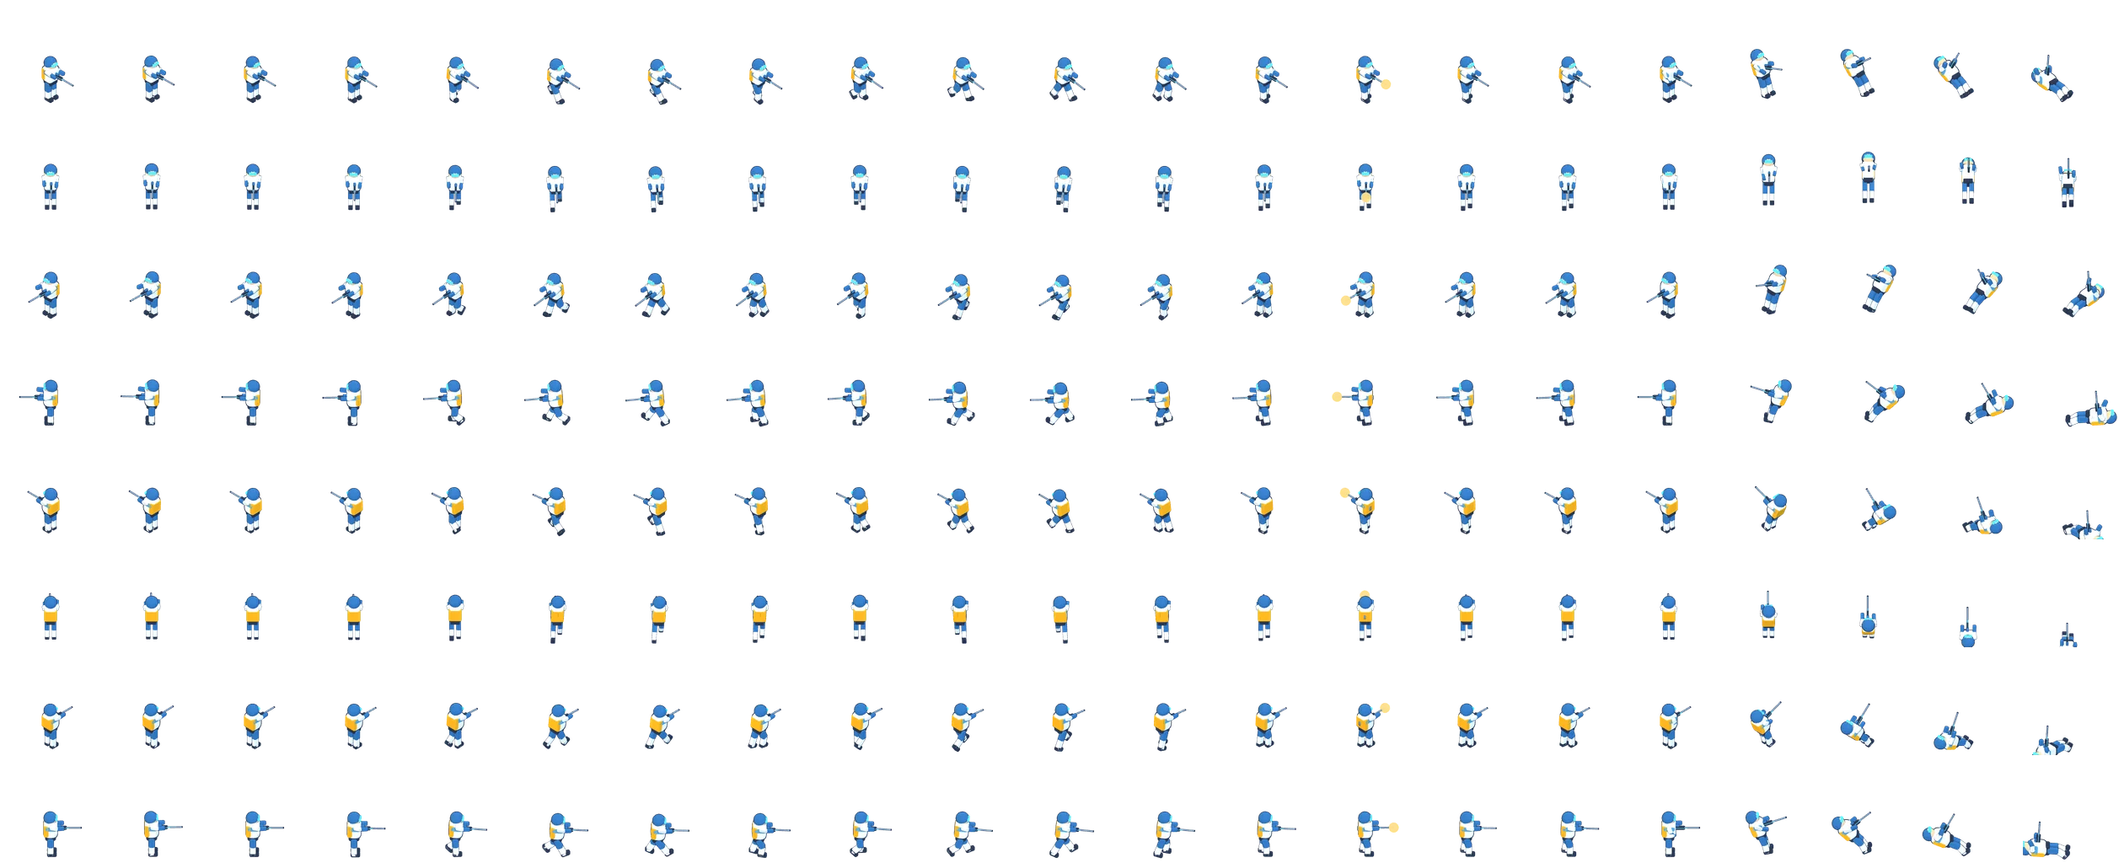
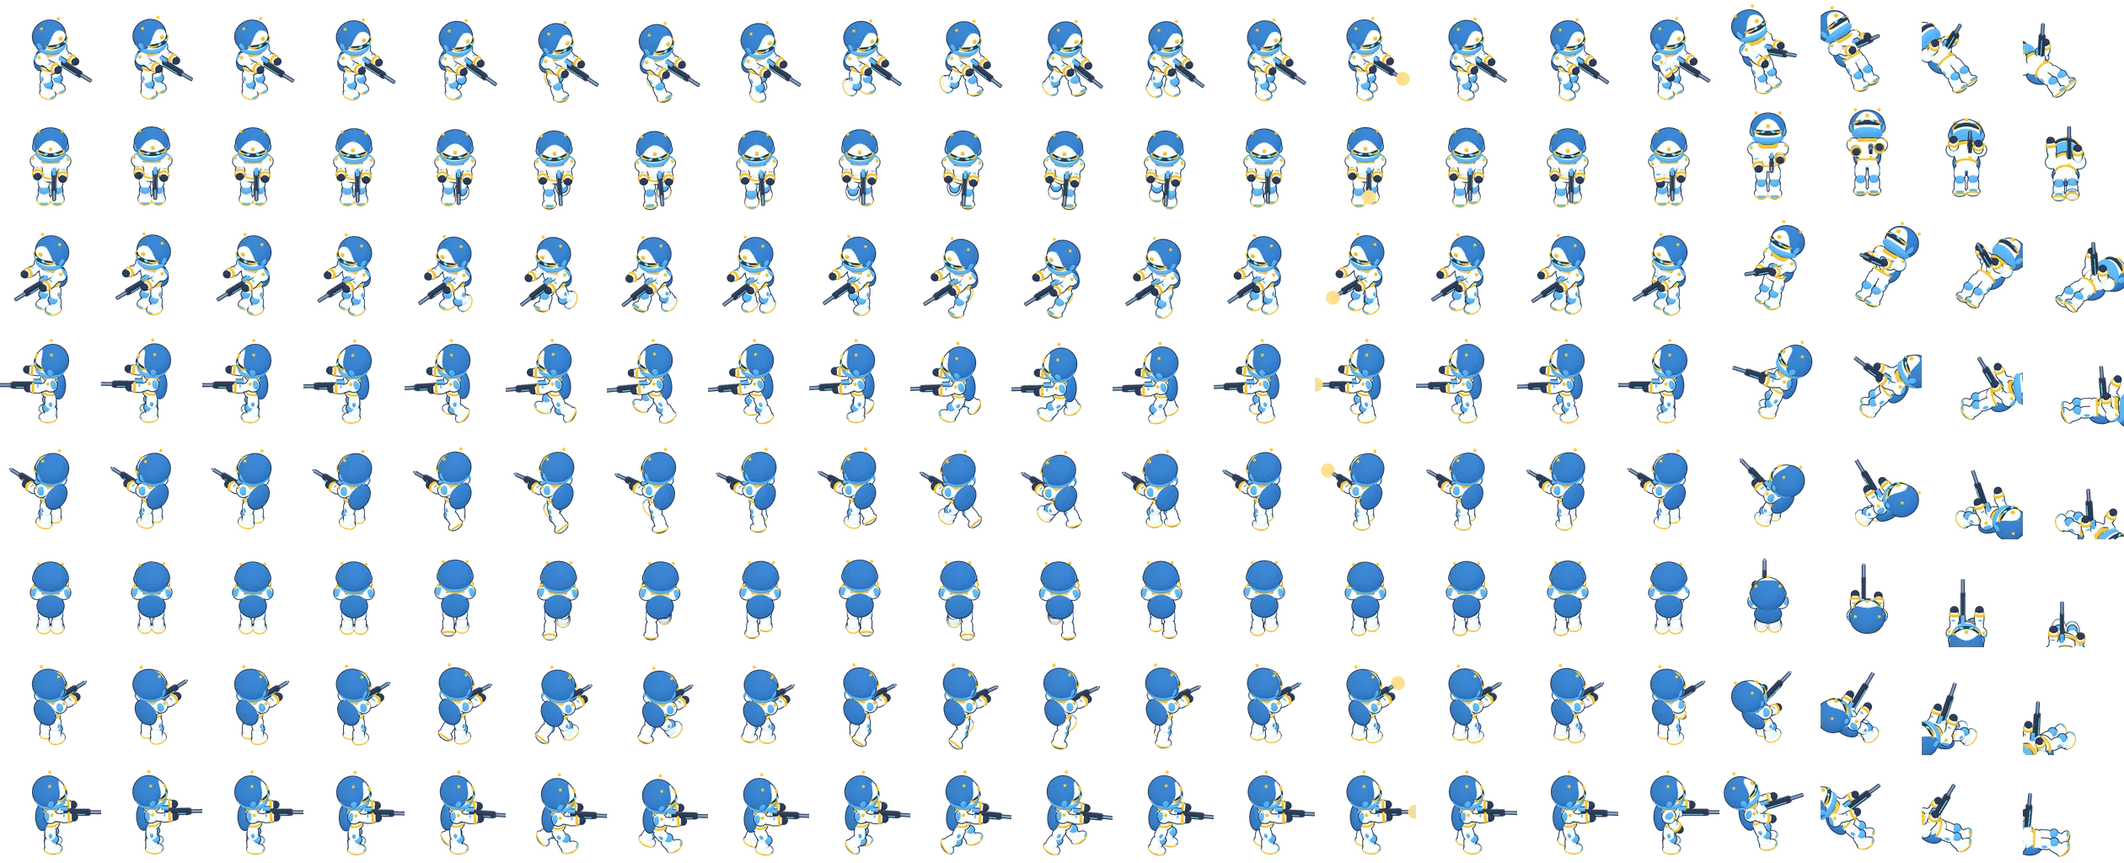
Smooth chibi 3D ranger, battle mech, shield mech and sniper with even outlines (392)
Claude-Session: https://claude.ai/code/session_01ENEEn5t6aRdnVfFLYAeBwL

diff --git a/features/render3d/units3d.html b/features/render3d/units3d.html
@@ -12,13 +12,20 @@ const cam=new T.OrthographicCamera(-1.6,1.6,2.35,-1.05,0.1,100);cam.position.set
 S.add(new T.HemisphereLight(0xfff6e8,0x5571a3,1.35));
 const sun=new T.DirectionalLight(0xfff0d6,3.0);sun.position.set(-3,10,7);S.add(sun);
 const rim=new T.DirectionalLight(0x9fe3ff,1.5);rim.position.set(7,3,-5);S.add(rim);
-const g=new Uint8Array([70,150,215,255]);const ramp=new T.DataTexture(g,4,1,T.RedFormat);ramp.minFilter=ramp.magFilter=T.NearestFilter;ramp.needsUpdate=true;
+const g=new Uint8Array([95,150,195,232,255]);const ramp=new T.DataTexture(g,5,1,T.RedFormat);ramp.minFilter=ramp.magFilter=T.NearestFilter;ramp.needsUpdate=true;
 const M=(c,e=0)=>new T.MeshToonMaterial({color:c,gradientMap:ramp,emissive:e});
-const OUT=new T.MeshBasicMaterial({color:0x1f2c48,side:T.BackSide});
-function mesh(geo,mat,parent,ol=0.07){const m=new T.Mesh(geo,mat);parent.add(m);if(ol){const o=new T.Mesh(geo,OUT);o.scale.setScalar(1+ol);m.add(o);}return m;}
+// Uniform-width toon outline: back faces pushed out along normals (in view-independent units).
+const OUT=new T.ShaderMaterial({side:T.BackSide,uniforms:{w:{value:0.018}},
+ vertexShader:'uniform float w;void main(){vec3 n=normalize(normalMatrix*normal);vec4 mv=modelViewMatrix*vec4(position,1.0);mv.xyz+=n*w;gl_Position=projectionMatrix*mv;}',
+ fragmentShader:'void main(){gl_FragColor=vec4(0.13,0.19,0.31,1.0);}'});
+function mesh(geo,mat,parent,ol=0.07){const m=new T.Mesh(geo,mat);parent.add(m);if(ol){const o=new T.Mesh(geo,OUT);m.add(o);}return m;}
 function rbox(w,h,d,r){r=Math.min(r,w/2-0.001,h/2-0.001);const s=new T.Shape(),x=-w/2+r,y=-h/2+r;s.moveTo(x,-h/2);s.lineTo(w/2-r,-h/2);s.quadraticCurveTo(w/2,-h/2,w/2,y);s.lineTo(w/2,h/2-r);s.quadraticCurveTo(w/2,h/2,w/2-r,h/2);s.lineTo(x,h/2);s.quadraticCurveTo(-w/2,h/2,-w/2,h/2-r);s.lineTo(-w/2,y);s.quadraticCurveTo(-w/2,-h/2,x,-h/2);
- const dd=Math.max(0.01,d-2*r*0.6);const geo=new T.ExtrudeGeometry(s,{depth:dd,bevelEnabled:true,bevelSize:r*0.6,bevelThickness:r*0.6,bevelSegments:3,curveSegments:6});geo.translate(0,0,-dd/2);geo.computeVertexNormals();return geo;}
-function cyl(r1,r2,h,seg=16){return new T.CylinderGeometry(r1,r2,h,seg);}
+ const dd=Math.max(0.01,d-2*r*0.6);const geo=new T.ExtrudeGeometry(s,{depth:dd,bevelEnabled:true,bevelSize:r*0.6,bevelThickness:r*0.6,bevelSegments:5,curveSegments:10});geo.translate(0,0,-dd/2);geo.computeVertexNormals();return geo;}
+function cyl(r1,r2,h,seg=24){return new T.CylinderGeometry(r1,r2,h,seg);}
+function sph(r,sx=1,sy=1,sz=1){const g=new T.SphereGeometry(r,40,28);g.scale(sx,sy,sz);return g;}
+function cap(r,l,sx=1,sz=1){const g=new T.CapsuleGeometry(r,l,10,28);g.scale(sx,1,sz);return g;}
+function band(r,t,sx=1,sz=1,arc=Math.PI*2){const g=new T.TorusGeometry(r,t,10,48,arc);g.rotateX(Math.PI/2);g.scale(sx,1,sz);return g;}
+function soft(w,h,d,r){return rbox(w,h,d,r);}
 const C={white:0xe6eef8,sky:0x4f9fe0,deep:0x2f6fb8,gold:0xf2a91e,steel:0x6f84a0,dark:0x27324a,glow:0x5ff2ff,tan:0xd8b47c,tanDark:0xb08850,skin:0xf1c9a5};
 const mat={};for(const k in C)mat[k]=M(C[k]);const GLOW=new T.MeshBasicMaterial({color:C.glow}),SHIELD=new T.MeshBasicMaterial({color:0x6fd8ff,transparent:true,opacity:0.55,side:T.DoubleSide});
 // rig builder: returns joints to animate
@@ -35,75 +42,134 @@ function arm(parent,side,o){const sh=new T.Group();sh.position.set(o.sx||0,o.sy,
  mesh(rbox(o.fa,o.fl,o.fa,o.fa*0.35),o.mat2||o.mat,el).position.y=-o.fl/2;
  const hand=new T.Group();hand.position.y=-o.fl;el.add(hand);return {sh,el,hand};}
 const UNITS={
- mech(){const root=new T.Group(),body=new T.Group();root.add(body);
-  const L=legs(body,{hip:0.82,w:0.19,th:0.18,tl:0.38,sh:0.24,sl:0.4,fl:0.38,fh:0.14,fw:0.26,thighMat:mat.steel,shinMat:mat.white,footMat:mat.sky});
-  const torso=new T.Group();torso.position.y=0.8;body.add(torso);
-  mesh(rbox(0.5,0.18,0.5,0.06),mat.deep,torso).position.y=0.06;
-  mesh(rbox(0.54,0.52,0.64,0.16),mat.white,torso).position.y=0.38;
-  mesh(rbox(0.06,0.14,0.76,0.03),mat.gold,torso,0).position.set(0,0.22,0);
-  const core=new T.Mesh(new T.CylinderGeometry(0.12,0.12,0.04,20),GLOW);core.rotation.z=Math.PI/2;core.position.set(0.28,0.4,0);torso.add(core);
-  const ring=mesh(new T.TorusGeometry(0.14,0.03,8,20),mat.gold,torso,0);ring.rotation.y=Math.PI/2;ring.position.set(0.28,0.4,0);
+ // shared chibi limb builder (smooth capsules/spheres) for smooth units
+ _legs(body,o){const L={},W=o.W,B=o.B,G=o.G;for(const s of [1,-1]){const hip=new T.Group();hip.position.set(0,o.hip,s*o.w);body.add(hip);
+   mesh(cap(o.tr,o.tl,1,1),o.thigh||W,hip).position.y=-o.tl/2-o.tr*0.4;
+   const knee=new T.Group();knee.position.y=-o.tl-o.tr*0.6;hip.add(knee);
+   mesh(sph(o.tr*0.95,1,0.9,1),B,knee).position.set(o.tr*0.55,0,0);
+   mesh(cap(o.sr,o.sl,1,1),W,knee).position.y=-o.sl/2-o.sr*0.5;
+   const boot=mesh(sph(o.fr,1.35,0.62,1.05),o.boot||W,knee);boot.position.set(o.fr*0.35,-o.sl-o.sr*0.9,0);
+   mesh(band(o.fr*1.02,0.02,1.35,1.05),G,knee,0).position.set(o.fr*0.35,-o.sl-o.sr*1.05,0);
+   L[s>0?'l':'r']={hip,knee};}return L;},
+ _arm(torso,side,o){const sh=new T.Group();sh.position.set(0,o.y,side*o.z);torso.add(sh);
+   mesh(sph(o.pad,1,0.9,1),o.padMat,sh);mesh(sph(o.pad*0.35),o.G,sh,0).position.set(o.pad*0.9,0,side*o.pad*0.3);
+   mesh(cap(o.ur,o.ul),o.W,sh).position.y=-o.ul/2-o.ur;
+   const el=new T.Group();el.position.y=-o.ul-o.ur*1.6;sh.add(el);
+   mesh(cap(o.fr,o.fl),o.fore||o.W,el).position.y=-o.fl/2-o.fr*0.6;mesh(band(o.fr*1.02,0.025),o.G,el,0).position.y=-o.fl-o.fr*0.3;
+   const hand=new T.Group();hand.position.y=-o.fl-o.fr*1.2;el.add(hand);return {sh,el,hand};},
+ mech(){const root=new T.Group(),body=new T.Group();root.add(body);const W=mat.white,B=mat.sky,G=mat.gold,D=mat.dark,S=mat.steel;
+  const L=UNITS._legs(body,{hip:0.72,w:0.2,tr:0.13,tl:0.18,sr:0.15,sl:0.18,fr:0.17,W,B,G,thigh:S,boot:B});
+  const torso=new T.Group();torso.position.y=0.72;body.add(torso);
+  mesh(sph(0.26,1,0.5,1.05),S,torso).position.y=0.05;
+  mesh(sph(0.42,1.0,0.88,1.1),W,torso).position.y=0.38;
+  mesh(sph(0.3,0.55,0.7,0.95),B,torso,0).position.set(0.17,0.36,0);
+  const core=new T.Mesh(sph(0.11,0.4,1,1),GLOW);core.position.set(0.37,0.4,0);torso.add(core);
+  mesh(band(0.12,0.03,0.4,1),G,torso,0).position.set(0.36,0.4,0);mesh(band(0.12,0.03,0.4,1),G,torso,0).rotation.z=Math.PI/2;torso.children.at(-1).position.set(0.36,0.4,0);
+  mesh(band(0.38,0.025,1,1.12),G,torso,0).position.y=0.12;
   const head=new T.Group();head.position.y=0.66;torso.add(head);
-  mesh(rbox(0.3,0.24,0.32,0.1),mat.white,head).position.y=0.1;
-  const visor=mesh(rbox(0.06,0.1,0.26,0.03),GLOW,head,0);visor.position.set(0.16,0.12,0);
-  mesh(cyl(0.015,0.015,0.2,6),mat.steel,head,0.15).position.set(-0.08,0.3,0.1);
-  const A={};A.l=arm(torso,1,{sy:0.56,sz:0.42,ua:0.18,ul:0.24,fa:0.2,fl:0.24,mat:mat.white,mat2:mat.sky,pad:0.3,padMat:mat.sky});
-  A.r=arm(torso,-1,{sy:0.56,sz:0.42,ua:0.18,ul:0.24,fa:0.2,fl:0.1,mat:mat.white,pad:0.3,padMat:mat.sky});
-  // gatling on right forearm, always present
-  const gun=new T.Group();A.r.hand.add(gun);gun.position.set(0,0,0);
-  mesh(rbox(0.26,0.26,0.26,0.07),mat.steel,gun).position.set(0,-0.05,0);
-  for(let i=0;i<4;i++){const a=i*Math.PI/2+0.4;const b=mesh(cyl(0.035,0.035,0.5,8),mat.dark,gun,0.12);b.position.set(Math.cos(a)*0.07,-0.36,Math.sin(a)*0.07);}
-  mesh(cyl(0.11,0.11,0.06,12),mat.gold,gun,0.08).position.y=-0.55;
-  const muzzle=new T.Group();muzzle.position.y=-0.62;gun.add(muzzle);
-  return {root,body,torso,head,L,A,muzzle,heavy:0.75,aim:'r',gunArm:A.r};},
- shield(){const root=new T.Group(),body=new T.Group();root.add(body);
-  const L=legs(body,{hip:0.78,w:0.22,th:0.24,tl:0.36,sh:0.3,sl:0.38,fl:0.44,fh:0.16,fw:0.32,thighMat:mat.steel,shinMat:mat.tan,footMat:mat.tanDark});
-  const torso=new T.Group();torso.position.y=0.76;body.add(torso);
-  mesh(rbox(0.56,0.2,0.56,0.06),mat.deep,torso).position.y=0.06;
-  mesh(rbox(0.64,0.56,0.74,0.18),mat.tan,torso).position.y=0.4;
-  mesh(rbox(0.4,0.26,0.06,0.05),mat.sky,torso,0).position.set(0.15,0.42,0.38);
-  mesh(rbox(0.08,0.42,0.5,0.04),mat.sky,torso,0).position.set(0.33,0.4,0);
-  const head=new T.Group();head.position.y=0.7;torso.add(head);
-  mesh(rbox(0.3,0.22,0.36,0.1),mat.tan,head).position.y=0.08;
-  mesh(rbox(0.06,0.08,0.28,0.03),GLOW,head,0).position.set(0.15,0.1,0);
-  const A={};A.l=arm(torso,1,{sy:0.6,sz:0.47,ua:0.22,ul:0.24,fa:0.24,fl:0.26,mat:mat.tanDark,mat2:mat.tan,pad:0.36,padMat:mat.sky});
-  A.r=arm(torso,-1,{sy:0.6,sz:0.47,ua:0.22,ul:0.24,fa:0.24,fl:0.12,mat:mat.tanDark,pad:0.36,padMat:mat.sky});
-  // big hexagon energy shield on left forearm, always present
-  const sh=new T.Group();A.l.el.add(sh);sh.position.set(0.22,-0.18,0.16);sh.rotation.z=Math.PI/2;
-  const hex=new T.Mesh(new T.CylinderGeometry(0.52,0.52,0.05,6),SHIELD);hex.rotation.x=0;sh.add(hex);
-  const rim=mesh(new T.TorusGeometry(0.5,0.045,6,6),mat.sky,sh,0.1);rim.rotation.x=Math.PI/2;rim.rotation.z=Math.PI/6;
-  const boss=mesh(cyl(0.12,0.12,0.08,6),mat.gold,sh,0.12);
+  mesh(sph(0.2,1.05,0.85,1.05),W,head).position.y=0.12;
+  const v=mesh(sph(0.17,0.55,0.38,1),D,head);v.position.set(0.12,0.13,0);
+  for(const z of [0.07,-0.07]){const e=new T.Mesh(sph(0.035,0.6,0.7,1.3),GLOW);e.position.set(0.21,0.14,z);head.add(e);}
+  mesh(cap(0.025,0.14),B,head).position.set(-0.05,0.33,0.1);mesh(sph(0.035),G,head,0).position.set(-0.05,0.42,0.1);
+  const A={};const ao={y:0.55,z:0.5,pad:0.2,padMat:B,ur:0.09,ul:0.08,fr:0.12,fl:0.1,W,G,fore:B};
+  A.l=UNITS._arm(torso,1,ao);A.r=UNITS._arm(torso,-1,Object.assign({},ao,{fl:0.02}));
+  mesh(sph(0.1,1,1,1),D,A.l.hand).position.y=-0.02;
   const gun=new T.Group();A.r.hand.add(gun);
-  mesh(rbox(0.26,0.3,0.26,0.07),mat.steel,gun).position.y=-0.08;
-  mesh(cyl(0.07,0.08,0.3,12),mat.dark,gun,0.1).position.y=-0.34;
-  const muzzle=new T.Group();muzzle.position.y=-0.5;gun.add(muzzle);
+  mesh(sph(0.16,1,1.1,1),S,gun).position.y=-0.04;
+  for(let k=0;k<6;k++){const a=k*Math.PI/3;mesh(cyl(0.032,0.032,0.5,12),D,gun).position.set(Math.cos(a)*0.075,-0.36,Math.sin(a)*0.075);}
+  mesh(cyl(0.12,0.12,0.06,24),G,gun).position.y=-0.2;mesh(cyl(0.11,0.11,0.05,24),G,gun).position.y=-0.56;
+  const muzzle=new T.Group();muzzle.position.y=-0.64;gun.add(muzzle);
+  return {root,body,torso,head,L,A,muzzle,heavy:0.75,aim:'r',gunArm:A.r};},
+ shield(){const root=new T.Group(),body=new T.Group();root.add(body);const W=mat.tan,B=mat.sky,G=mat.gold,D=mat.dark,S=mat.steel;
+  const L=UNITS._legs(body,{hip:0.7,w:0.24,tr:0.15,tl:0.16,sr:0.17,sl:0.16,fr:0.2,W,B,G,thigh:S,boot:mat.tanDark});
+  const torso=new T.Group();torso.position.y=0.7;body.add(torso);
+  mesh(sph(0.3,1,0.5,1.05),S,torso).position.y=0.05;
+  mesh(sph(0.46,1.0,0.86,1.12),W,torso).position.y=0.4;
+  mesh(sph(0.34,0.5,0.6,0.95),B,torso,0).position.set(0.19,0.42,0);
+  mesh(band(0.42,0.03,1,1.12),G,torso,0).position.y=0.15;mesh(band(0.36,0.025,0.5,0.95,Math.PI),G,torso,0).position.set(0.19,0.36,0);
+  const head=new T.Group();head.position.y=0.72;torso.add(head);
+  mesh(sph(0.19,1.05,0.8,1.05),W,head).position.y=0.1;
+  mesh(sph(0.16,0.55,0.32,1),D,head).position.set(0.11,0.11,0);
+  const e=new T.Mesh(sph(0.04,0.5,0.5,2.6),GLOW);e.position.set(0.2,0.12,0);head.add(e);
+  const A={};const ao={y:0.6,z:0.56,pad:0.24,padMat:B,ur:0.1,ul:0.08,fr:0.13,fl:0.12,W:mat.tanDark,G,fore:W};
+  A.l=UNITS._arm(torso,1,ao);A.r=UNITS._arm(torso,-1,Object.assign({},ao,{fl:0.04}));
+  const sh=new T.Group();A.l.el.add(sh);sh.position.set(0.22,-0.2,0.2);sh.rotation.z=Math.PI/2;
+  sh.add(new T.Mesh(new T.CylinderGeometry(0.52,0.52,0.05,6),SHIELD));
+  const rim=mesh(new T.TorusGeometry(0.5,0.05,10,6),B,sh);rim.rotation.x=Math.PI/2;rim.rotation.z=Math.PI/6;
+  mesh(cyl(0.13,0.13,0.1,6),G,sh);
+  const gun=new T.Group();A.r.hand.add(gun);
+  mesh(sph(0.15,1,1.15,1),S,gun).position.y=-0.06;
+  mesh(cyl(0.075,0.09,0.32,20),D,gun).position.y=-0.32;mesh(cyl(0.1,0.1,0.06,20),G,gun).position.y=-0.46;
+  const muzzle=new T.Group();muzzle.position.y=-0.52;gun.add(muzzle);
   return {root,body,torso,head,L,A,muzzle,heavy:0.6,aim:'r',gunArm:A.r,shieldArm:A.l};},
- sniper(){const root=new T.Group(),body=new T.Group();root.add(body);
-  const L=legs(body,{hip:0.62,w:0.11,th:0.14,tl:0.3,sh:0.13,sl:0.32,fl:0.24,fh:0.09,fw:0.13,thighMat:mat.deep,shinMat:mat.white,footMat:mat.dark});
+ ranger(){const root=new T.Group(),body=new T.Group();root.add(body);const W=mat.white,B=mat.sky,G=mat.gold,D=mat.dark;
+  // legs: chunky white thighs/shins, blue knee caps, gold bands, rounded boots
+  const L={};for(const s of [1,-1]){const hip=new T.Group();hip.position.set(0,0.62,s*0.15);body.add(hip);
+   mesh(cap(0.12,0.12,1,1),W,hip,0.085).position.y=-0.14;mesh(sph(0.1,0.5,0.9,0.7),B,hip,0).position.set(0,-0.14,s*0.07);
+   const knee=new T.Group();knee.position.y=-0.3;hip.add(knee);
+   mesh(sph(0.11,0.95,0.9,0.95),B,knee,0.09).position.set(0.07,-0.02,0);
+   mesh(cap(0.12,0.1,1.05,1),W,knee,0.085).position.y=-0.13;mesh(sph(0.1,0.55,0.8,0.8),B,knee,0).position.set(0.07,-0.16,0);
+   const boot=mesh(sph(0.15,1.3,0.62,1),W,knee,0.085);boot.position.set(0.06,-0.29,0);
+   const toe=mesh(sph(0.1,1.2,0.5,1.1),B,knee,0);toe.position.set(0.15,-0.29,0);
+   mesh(band(0.135,0.02,1.3,1),G,knee,0).position.set(0.06,-0.33,0);
+   L[s>0?'l':'r']={hip,knee};}
   const torso=new T.Group();torso.position.y=0.62;body.add(torso);
-  mesh(rbox(0.26,0.16,0.3,0.05),mat.dark,torso).position.y=0.06;
-  mesh(rbox(0.3,0.44,0.38,0.11),mat.white,torso).position.y=0.34;
-  mesh(rbox(0.32,0.12,0.4,0.05),mat.sky,torso,0).position.y=0.42;
-  mesh(rbox(0.1,0.38,0.4,0.05),mat.gold,torso,0).position.set(-0.14,0.32,0);
-  const head=new T.Group();head.position.y=0.6;torso.add(head);
-  mesh(new T.SphereGeometry(0.17,18,14),mat.skin,head).position.set(0.03,0.12,0);
-  const hood=mesh(new T.SphereGeometry(0.2,18,14,0,Math.PI*2,0,Math.PI*0.62),mat.deep,head);hood.position.set(-0.01,0.13,0);hood.rotation.z=0.35;
-  mesh(rbox(0.05,0.07,0.24,0.03),GLOW,head,0).position.set(0.18,0.14,0);
-  const A={};A.l=arm(torso,1,{sy:0.5,sz:0.21,ua:0.1,ul:0.22,fa:0.09,fl:0.2,mat:mat.white,mat2:mat.deep});
-  A.r=arm(torso,-1,{sy:0.5,sz:0.21,ua:0.1,ul:0.22,fa:0.09,fl:0.2,mat:mat.white,mat2:mat.deep});
-  // long rifle held at chest in both hands, always present
-  const rifle=new T.Group();rifle.position.set(0.18,0.34,-0.02);torso.add(rifle);
-  mesh(rbox(0.5,0.09,0.06,0.03),mat.dark,rifle).position.x=0.05;
-  mesh(rbox(0.22,0.12,0.07,0.03),mat.steel,rifle).position.set(-0.22,-0.02,0);
-  mesh(cyl(0.025,0.025,0.55,8),mat.steel,rifle,0.12).rotation.z=Math.PI/2;rifle.children.at(-1).position.x=0.5;
-  const scope=mesh(cyl(0.035,0.035,0.2,8),mat.deep,rifle,0.12);scope.rotation.z=Math.PI/2;scope.position.set(0.05,0.08,0);
-  const line=new T.Mesh(new T.BoxGeometry(0.5,0.015,0.065),GLOW);line.position.set(0.15,0,0);rifle.add(line);
-  const muzzle=new T.Group();muzzle.position.x=0.8;rifle.add(muzzle);
-  return {root,body,torso,head,L,A,muzzle,heavy:1,aim:'rifle',rifle};}
+  mesh(sph(0.2,1,0.55,1.15),W,torso,0.085).position.y=0.04;                 // hips
+  mesh(band(0.2,0.022,1,1.15),G,torso,0).position.y=0.1;
+  mesh(sph(0.24,0.95,1.05,1.12),W,torso,0.085).position.y=0.33;               // chest
+  mesh(sph(0.23,0.62,0.95,1.02),B,torso,0).position.set(0.07,0.33,0);          // blue chest plate
+  mesh(band(0.2,0.02,0.62,1.02,Math.PI),G,torso,0).position.set(0.07,0.3,0);
+  mesh(band(0.16,0.04,1,1.25),G,torso,0.09).position.y=0.54;                   // gold collar
+  const head=new T.Group();head.position.y=0.58;torso.add(head);
+  const helm=mesh(sph(0.34,1,0.98,1),W,head,0.03);helm.position.y=0.3;          // big chibi helmet
+  const crest=mesh(sph(0.345,0.98,0.98,0.62,),B,head,0);crest.position.set(-0.02,0.32,0);crest.scale.set(0.98,0.98,0.5);
+  mesh(sph(0.35,1,0.4,1.0),B,head,0).position.set(0,0.12,0);                   // lower blue jaw guard
+  const visor=mesh(sph(0.3,0.5,0.32,0.95),D,head,0.09);visor.position.set(0.2,0.3,0);
+  mesh(band(0.3,0.022,0.55,1),G,head,0).position.set(0.19,0.3,0);
+  for(const z of [0.1,-0.1]){const e=new T.Mesh(sph(0.045,0.6,0.7,1.4),GLOW);e.position.set(0.34,0.31,z);head.add(e);}
+  for(const z of [1,-1]){mesh(sph(0.1,0.8,1.1,0.7),B,head,0.09).position.set(0,0.27,z*0.33);
+   const ant=mesh(cap(0.03,0.16),B,head,0.08);ant.position.set(-0.02,0.58,z*0.24);ant.rotation.x=-z*0.25;
+   mesh(sph(0.035),G,head,0).position.set(-0.02,0.69,z*0.27);}
+  mesh(soft(0.04,0.06,0.08,0.02),G,head,0).position.set(0.32,0.45,0);          // gold triangle mark
+  const A={};for(const side of [1,-1]){const sh=new T.Group();sh.position.set(0,0.44,side*0.3);torso.add(sh);
+   mesh(sph(0.15,1,0.95,1),W,sh,0.085);mesh(sph(0.12,0.9,0.6,0.9),B,sh,0).position.set(0.02,0.07,side*0.03);mesh(sph(0.04),G,sh,0).position.set(0.13,0,side*0.06);
+   mesh(cap(0.085,0.14),W,sh,0.085).position.y=-0.15;
+   const el=new T.Group();el.position.y=-0.26;sh.add(el);
+   mesh(cap(0.1,0.12,1,1),W,el,0.085).position.y=-0.1;mesh(band(0.1,0.03),G,el,0).position.y=-0.17;mesh(sph(0.09,0.8,0.9,0.9),B,el,0).position.set(0.03,-0.06,0);
+   const hand=new T.Group();hand.position.y=-0.24;el.add(hand);mesh(sph(0.075,1,1.1,1.1),D,hand,0.05).position.y=-0.03;
+   A[side>0?'l':'r']={sh,el,hand};}
+  // blaster carried in both hands
+  const rifle=new T.Group();rifle.position.set(0.24,0.27,-0.08);torso.add(rifle);
+  mesh(soft(0.62,0.13,0.11,0.05),W,rifle,0.09).position.x=0.1;
+  mesh(soft(0.36,0.06,0.115,0.025),B,rifle,0).position.set(0.12,0.03,0);
+  mesh(soft(0.12,0.16,0.09,0.09),D,rifle,0.05).position.set(-0.1,-0.11,0);
+  mesh(soft(0.08,0.15,0.07,0.03),G,rifle,0.05).position.set(0.08,-0.12,0);
+  mesh(soft(0.16,0.07,0.08,0.03),B,rifle,0.05).position.set(0.06,0.11,0);
+  const br=mesh(cyl(0.04,0.04,0.18,20),D,rifle,0.08);br.rotation.z=Math.PI/2;br.position.set(0.48,0.0,0);
+  const gl=new T.Mesh(soft(0.2,0.02,0.118,0.008),GLOW);gl.position.set(0.18,-0.02,0);rifle.add(gl);
+  const muzzle=new T.Group();muzzle.position.x=0.6;rifle.add(muzzle);
+  return {root,body,torso,head,L,A,muzzle,heavy:1,aim:'rifle',rifle};},
+ sniper(){const u=UNITS.ranger();const D=mat.dark,B=mat.sky,G=mat.gold;
+  // hooded deep-blue cloak over the helmet, cyan visor line
+  const hood=mesh(sph(0.37,1,0.95,1.02,),mat.deep,u.head);hood.position.set(-0.05,0.33,0);hood.scale.set(0.95,0.95,1.02);
+  const hc=new T.Mesh(sph(0.3,0.6,0.28,0.95),D);hc.position.set(0.2,0.29,0);u.head.add(hc);
+  const vis=new T.Mesh(sph(0.04,0.5,0.4,4.5),GLOW);vis.position.set(0.33,0.3,0);u.head.add(vis);
+  u.head.children.forEach(c=>{if(c.geometry&&c.geometry.type==='CapsuleGeometry')c.visible=false;});
+  const cape=mesh(sph(0.3,0.5,1.0,1.0),mat.deep,u.torso);cape.position.set(-0.18,0.2,0);
+  // long sniper rifle replaces the blaster
+  u.rifle.clear();
+  mesh(rbox(0.9,0.09,0.08,0.035),D,u.rifle).position.x=0.25;
+  mesh(rbox(0.3,0.13,0.09,0.05),mat.white,u.rifle).position.set(-0.05,-0.01,0);
+  const sc=mesh(cyl(0.045,0.045,0.26,18),B,u.rifle);sc.rotation.z=Math.PI/2;sc.position.set(0.08,0.1,0);
+  const br=mesh(cyl(0.025,0.025,0.4,14),mat.steel,u.rifle);br.rotation.z=Math.PI/2;br.position.set(0.82,0,0);
+  const gl=new T.Mesh(rbox(0.6,0.015,0.085,0.006),GLOW);gl.position.set(0.3,-0.03,0);u.rifle.add(gl);
+  mesh(rbox(0.06,0.14,0.06,0.025),G,u.rifle).position.set(-0.02,-0.11,0);
+  u.muzzle=new T.Group();u.muzzle.position.x=1.02;u.rifle.add(u.muzzle);return u;}
 };
 const flash=new T.Mesh(new T.SphereGeometry(0.16,14,10),new T.MeshBasicMaterial({color:0xffe08a,transparent:true,opacity:0.95}));
 let cur=null,curName=null;
-function setup(name){if(curName===name)return;if(cur)S.remove(cur.root);cur=UNITS[name]();curName=name;S.add(cur.root);cur.root.add(flash);}
+const ZOOM={ranger:1.45,sniper:1.4,mech:1.15,shield:1.1};
+function setup(name){if(curName===name)return;cam.zoom=ZOOM[name]||1;cam.position.set(10,11.17,10);cam.lookAt(0,0.9-(cam.zoom-1)*1.7,0);cam.updateProjectionMatrix();if(cur)S.remove(cur.root);cur=UNITS[name]();curName=name;S.add(cur.root);cur.root.add(flash);}
 function reset(u){u.root.position.set(0,0,0);u.root.rotation.set(0,0,0);u.body.position.set(0,0,0);u.body.rotation.set(0,0,0);u.torso.rotation.set(0,0,0);u.head.rotation.set(0,0,0);
  for(const k of ['l','r']){u.L[k].hip.rotation.set(0,0,0);u.L[k].knee.rotation.set(0,0,0);u.A[k].sh.rotation.set(0,0,0);u.A[k].el.rotation.set(0,0,0);}}
 function armsReady(u,rec){ // weapon arm points forward

diff --git a/features/render3d/units3d392.js b/features/render3d/units3d392.js
@@ -1,6 +1,6 @@
-// 392: pre-rendered 3D troops (battle mech 2, sniper 4, shield mech 6). 8 grid directions,
+// 392: pre-rendered 3D troops (ranger 0, battle mech 2, sniper 4, shield mech 6). 8 grid directions,
 // idle / walk (by distance travelled) / attack (by recoil) / death. Atlases by render-units.cjs.
-var unit3dKinds392={2:{file:'mech',height:46,perTile:8},4:{file:'sniper',height:38,perTile:10},6:{file:'shield',height:48,perTile:7}};
+var unit3dKinds392={0:{file:'ranger',height:38,perTile:10},2:{file:'mech',height:46,perTile:8},4:{file:'sniper',height:38,perTile:10},6:{file:'shield',height:48,perTile:7}};
 Object.keys(unit3dKinds392).forEach(function(k){var s=unit3dKinds392[k];s.meta=unit3dMeta392[s.file];if(!s.meta){delete unit3dKinds392[k];return;}s.img=new Image();s.img.onload=function(){drawNeeded=true;};s.img.src='assets/units3d392-'+s.file+'.webp';});
 function unit3dDir392(a){return ((Math.round(a/(Math.PI/4))%8)+8)%8;}
 function unit3d392(t,u,enemy,z,flip){

diff --git a/docs/units392.md b/docs/units392.md
@@ -16,4 +16,4 @@ Known art gaps from the generator: battle-mech front walk frames lack the gatlin
 
 ## 3D troops
 
-`features/render3d/units3d.html` builds toon-shaded rigs (battle mech with gatling, shield mech with hexagon energy shield, hooded sniper with long rifle) animated procedurally. `node features/render3d/render-units.cjs [mech shield sniper]` renders `assets/units3d392-<unit>.webp` (8 grid directions × idle 4, walk 8, attack 4, death 5) and `units3d.json` (feet anchor, idle height, per-direction muzzle). `units3d392.js` draws kinds 2/4/6 ahead of the AI sheets, picks the direction from movement or aim, advances walk by distance, attack by recoil, and supplies muzzle points to `weaponMount`. Weapons and shields are part of the model, so they never disappear between frames.
+`features/render3d/units3d.html` builds smooth toon-shaded chibi rigs from capsules and spheres with uniform normal-offset outlines (ranger, battle mech with gatling, shield mech with hexagon energy shield, hooded sniper with long rifle) animated procedurally. `node features/render3d/render-units.cjs [mech shield sniper]` renders `assets/units3d392-<unit>.webp` (8 grid directions × idle 4, walk 8, attack 4, death 5) and `units3d.json` (feet anchor, idle height, per-direction muzzle). `units3d392.js` draws kinds 2/4/6 ahead of the AI sheets, picks the direction from movement or aim, advances walk by distance, attack by recoil, and supplies muzzle points to `weaponMount`. Weapons and shields are part of the model, so they never disappear between frames.
